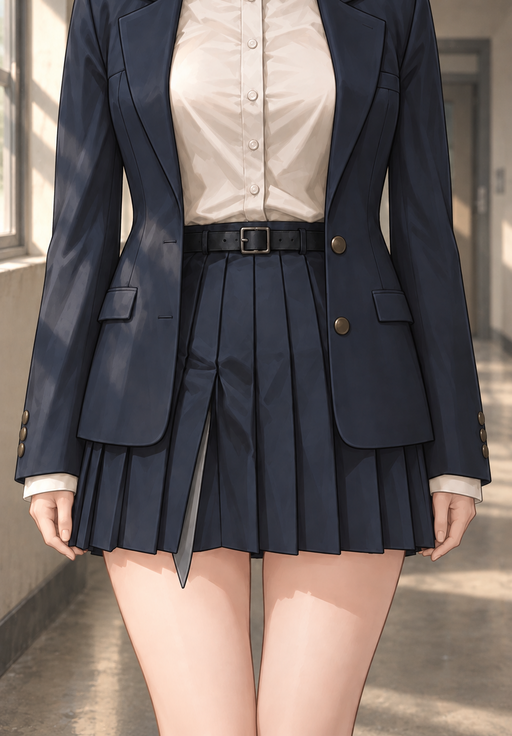
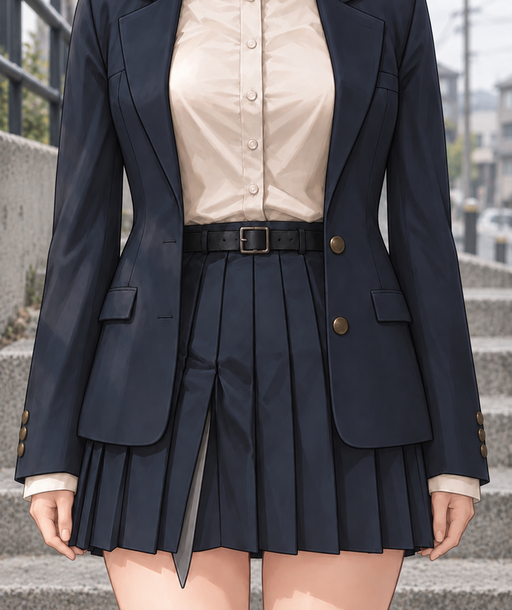
更新楼外阶梯动态样张 01-上装正面.png

diff --git a/wardrobe-samples-illustrated/背景风格样张/藏青西装套装/README.md b/wardrobe-samples-illustrated/背景风格样张/藏青西装套装/README.md
@@ -2,14 +2,12 @@
 
 [返回素材总目录](../../README.md)
 
-用户指定先做一套背景样张。采用同一走廊的自然光、地面与墙面，保留原人物、服装、厚涂风格和区域近景。样张单独存放，不计入185个正式目标文件。
+用户指定先做一套背景样张。采用同一处街边楼外阶梯和开放式楼道的自然光，保留原人物、服装、厚涂风格和区域近景。下装与袜子表现迈步上楼动作，下装背面按腰臀高度水平取景。样张单独存放，不计入185个正式目标文件。
 
 | 区域 | 图片 | 尺寸 |
 | --- | --- | --- |
-| 01-上装正面 | [查看](01-上装正面.png) | 512x736 |
+| 01-上装正面 | [查看](01-上装正面.png) | 512x610 |
 | 02-下装正面 | [查看](02-下装正面.png) | 512x445 |
 | 03-黑色及膝袜正面 | [查看](03-黑色及膝袜正面.png) | 512x768 |
 | 04-皮鞋侧面 | [查看](04-皮鞋侧面.png) | 512x512 |
 | 05-皮鞋背面 | [查看](05-皮鞋背面.png) | 512x512 |
-
-已核对5张样张的环境、光向和区域衔接。皮鞋两张均为同套黑色及膝袜的脚踝部分，袜筒延伸出画面上边缘。
